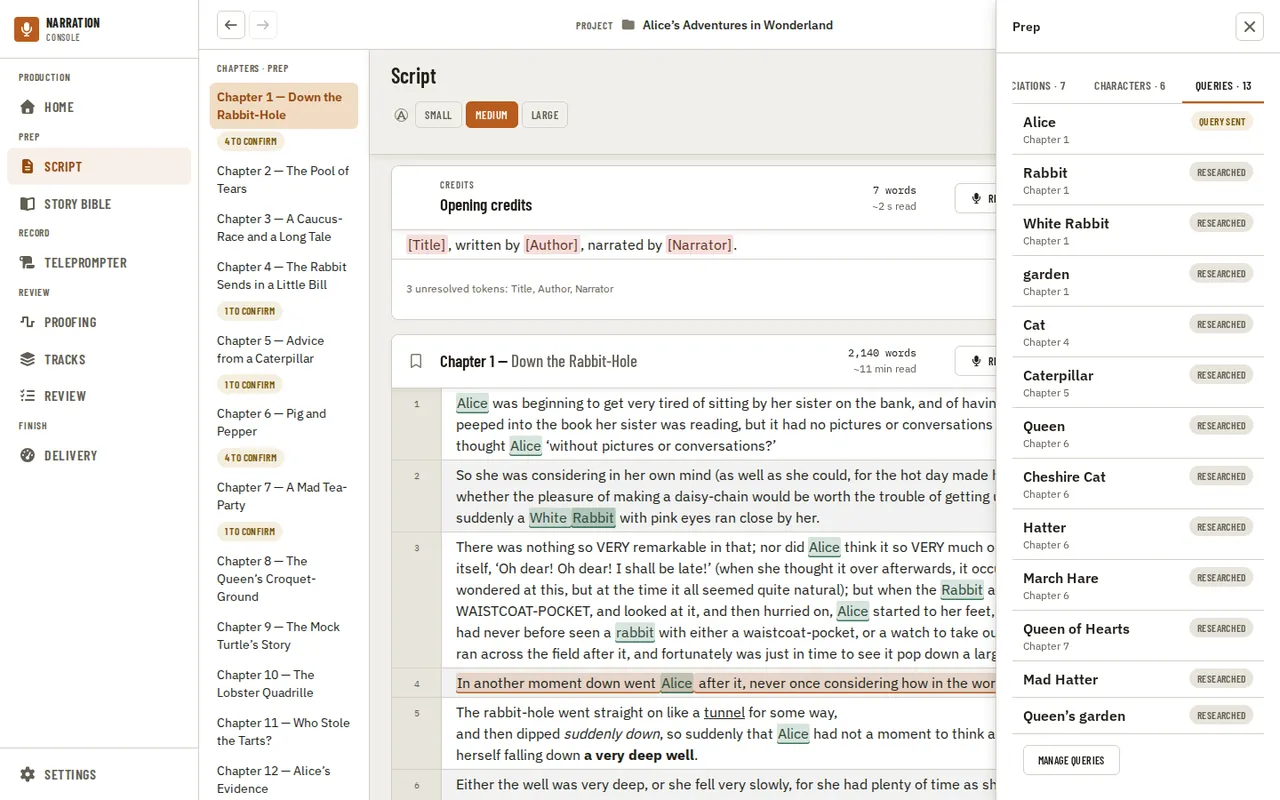
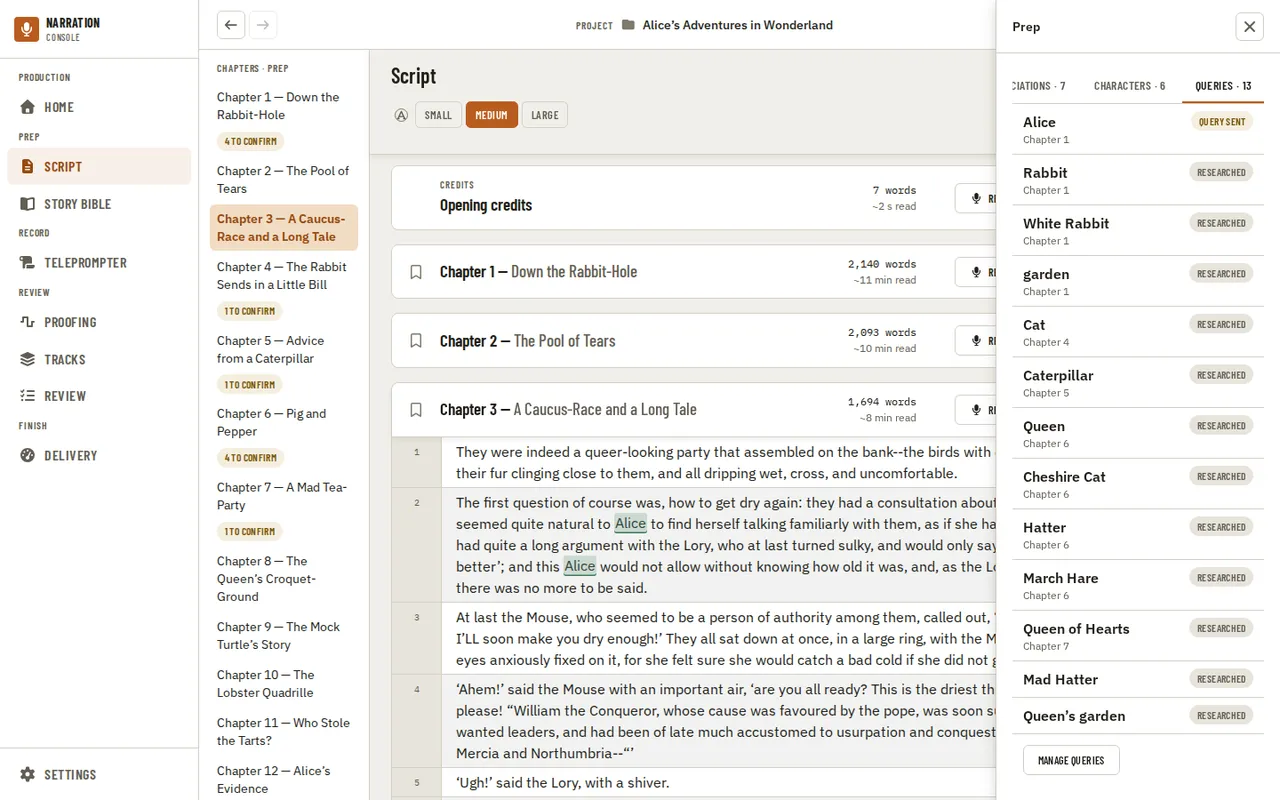
test(ui): drive the Script rail states on Chapter 3 instead of adding axe debt
Claude-Session: https://claude.ai/code/session_0112Y31y9sGxfaN6wnk4yCt8

diff --git a/apps/ui/tests/visual/drivers/script.ts b/apps/ui/tests/visual/drivers/script.ts
@@ -583,7 +583,14 @@ export const scriptDrivers: Record<string, Driver> = {
 // The Script page's rail as the width shows it (Phase 3): the Prep column from `xl`, or the Prep panel from the band's Prep rail
 // button below it. Returns the rail's container.
 async function openPrepRail(page: Page, load = true) {
-  if (load) await goToPage(page, 'Script');
+  if (load) {
+    // Chapter 3 open and the rest collapsed, like 'retail-sample': Chapter 1's overlapping highlights are the tracked
+    // nested-interactive debt (#155, axe-debt.ts), which the wide width, where the reader shows beside the rail, would inherit.
+    await goToPage(page, 'Script');
+    await clickVisible(page, 'button', 'Collapse all chapters');
+    await page.getByRole('heading', { name: /^Chapter 3 / }).click();
+    await page.locator('[data-paragraph-text]').first().waitFor();
+  }
   const column = page.getByRole('complementary', { name: 'Prep' });
   if (await column.isVisible()) return column;
   await clickVisible(page, 'button', 'Prep rail');

diff --git a/apps/ui/tests/visual/axe-debt.ts b/apps/ui/tests/visual/axe-debt.ts
@@ -30,14 +30,6 @@ const ALIAS_COMBOBOX = 'The alias typeahead is the one bespoke combobox and has 
 
 export const AXE_DEBT: AxeDebt[] = [
   ...NESTED_HIGHLIGHT_STATES.map((state) => ({ page: 'script', state, rules: ['nested-interactive'], reason: NESTED_MARKS })),
-  // The rail states show the reader's default view beside the rail at the wide width; below it the rail is a modal panel.
-  ...['prep-rail-characters', 'prep-rail-queries'].map((state) => ({
-    page: 'script',
-    state,
-    rules: ['nested-interactive'],
-    reason: NESTED_MARKS,
-    viewports: ['wide'],
-  })),
   { page: 'script', state: 'selection-popup', rules: ['nested-interactive', 'region'], reason: `${NESTED_MARKS}; and ${PORTALLED_POPUP}` },
   { page: 'global', state: 'tooltip', rules: ['aria-hidden-focus', 'region'], reason: `${FOCUS_GUARDS}; and ${PORTALLED_POPUP}` },
   { page: 'home', state: 'info-tooltip', rules: ['aria-hidden-focus', 'region'], reason: `${FOCUS_GUARDS}; and ${PORTALLED_POPUP}` },
